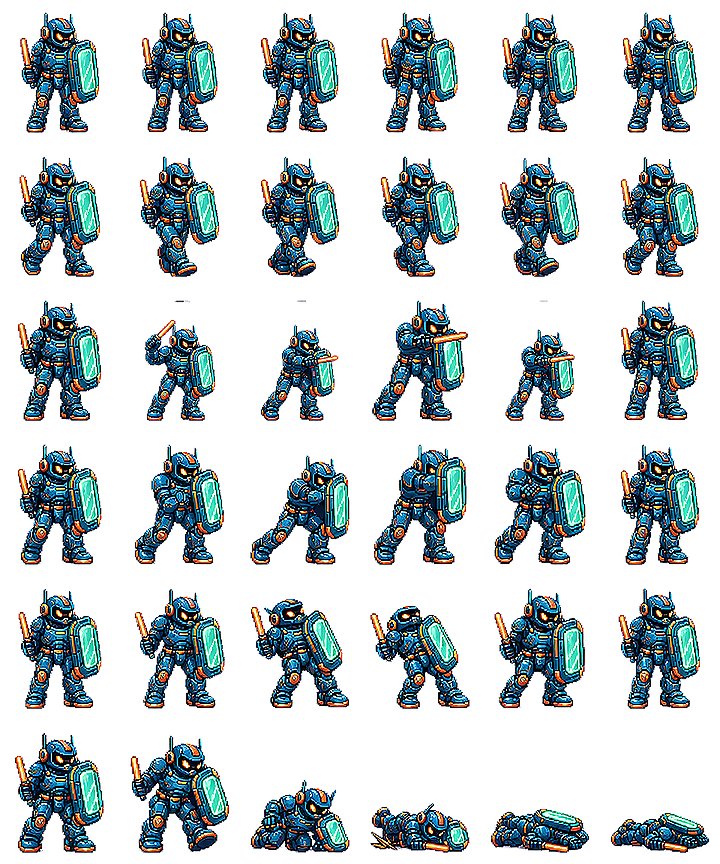
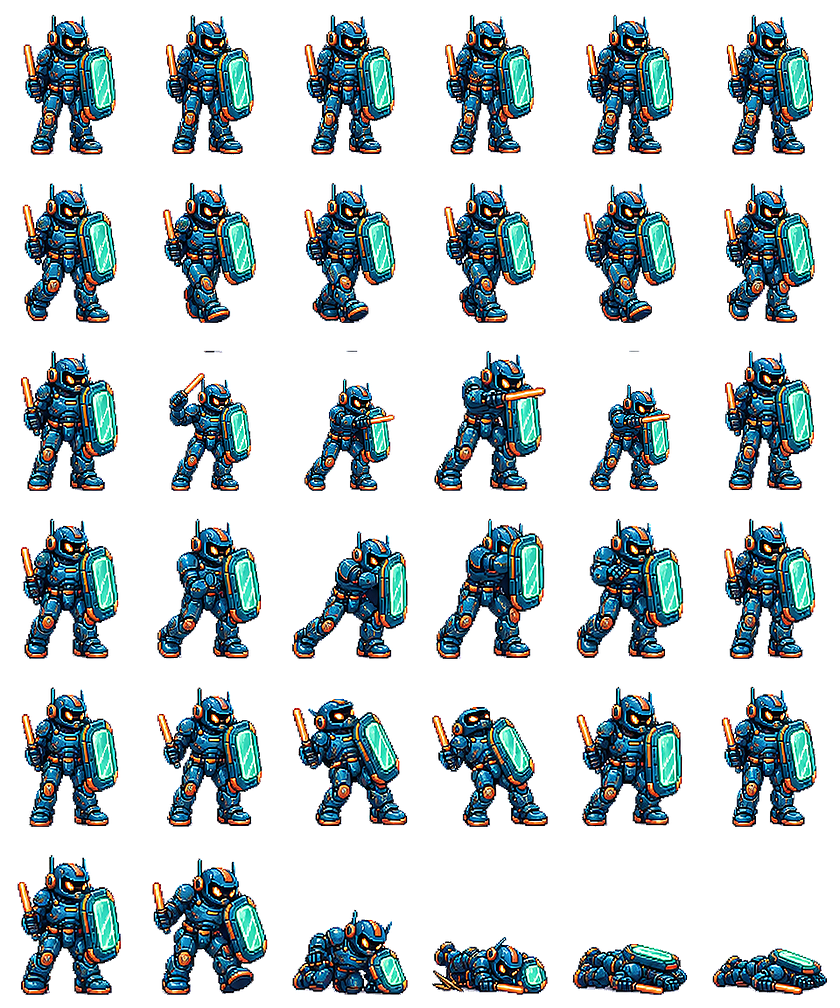
fix: clarify enemies and start stage panoramas immediately

diff --git a/android/app/src/main/java/com/familyforce/neonstreets/GameView.java b/android/app/src/main/java/com/familyforce/neonstreets/GameView.java
@@ -268,6 +268,8 @@ public final class GameView extends SurfaceView implements SurfaceHolder.Callbac
      */
     private final Paint heroPaint = new Paint(Paint.ANTI_ALIAS_FLAG
             | Paint.FILTER_BITMAP_FLAG | Paint.DITHER_FLAG);
+    private final Paint fineEnemyPaint = new Paint(Paint.ANTI_ALIAS_FLAG
+            | Paint.FILTER_BITMAP_FLAG | Paint.DITHER_FLAG);
     private final Paint portraitPaint = new Paint(Paint.FILTER_BITMAP_FLAG | Paint.DITHER_FLAG);
     private final Rect source = new Rect();
     private final RectF dest = new RectF();
@@ -4122,7 +4124,9 @@ public final class GameView extends SurfaceView implements SurfaceHolder.Callbac
                     Color.red(accent), Color.green(accent), Color.blue(accent)));
             canvas.drawRect(0, 0, W, H, paint);
         }
-        paint.setColor(Color.argb(82, 4, 5, 25));
+        // Panoramas already carry their intended night grading. The former
+        // 82-alpha veil hid signs, faces, and ground texture on TV panels.
+        paint.setColor(Color.argb(scene == stageScene ? 34 : 82, 4, 5, 25));
         canvas.drawRect(0, 0, W, H, paint);
         if (scene != stageScene) {
             paint.setColor(Color.rgb(31, 35, 58));
@@ -4137,8 +4141,12 @@ public final class GameView extends SurfaceView implements SurfaceHolder.Callbac
 
     private float stagePanProgress(float scroll, int stage) {
         int safeStage = clampInt(stage, 0, STAGE_NAMES.length - 1);
-        float start = safeStage == 0 ? 0f
-                : Math.max(0f, ZONE_TRIGGERS[STAGE_START_ZONE[safeStage]] - W * 0.35f);
+        // A stage begins where the camera stopped after the preceding gate,
+        // not near its first encounter. This makes scenery react from the
+        // player's first step instead of waiting ~200 world units in Stage 4.
+        float start = safeStage == 0 ? 0f : Math.max(0f,
+                ZONE_TRIGGERS[STAGE_END_ZONE[safeStage - 1]]
+                        + ENCOUNTER_GATE_OFFSET - 210f);
         float end = Math.min(WORLD_END - W,
                 ZONE_TRIGGERS[STAGE_END_ZONE[safeStage]] + ENCOUNTER_GATE_OFFSET);
         if (end <= start + 1f) return 0.5f;
@@ -4827,17 +4835,19 @@ public final class GameView extends SurfaceView implements SurfaceHolder.Callbac
         paint.setColor(Color.argb(100, 0, 0, 0));
         canvas.drawOval(x - width * 0.34f, enemy.y - 6, x + width * 0.34f, enemy.y + 7, paint);
         Bitmap bitmap = enemyArt[enemy.type];
+        Paint enemyPaint = enemy.type == ENEMY_STRIKER || enemy.type == ENEMY_SHIELD_GUARD
+                ? fineEnemyPaint : pixelPaint;
         if (enemy.flash > 0) {
-            pixelPaint.setColorFilter(new PorterDuffColorFilter(Color.WHITE, PorterDuff.Mode.SRC_ATOP));
+            enemyPaint.setColorFilter(new PorterDuffColorFilter(Color.WHITE, PorterDuff.Mode.SRC_ATOP));
         } else {
-            pixelPaint.setColorFilter(STAGE_ENEMY_FILTERS[stageForZone(enemy.zone)]);
+            enemyPaint.setColorFilter(STAGE_ENEMY_FILTERS[stageForZone(enemy.zone)]);
         }
         if (enemy.animator.isBound()) {
             canvas.save();
             if (!enemy.facingRight) canvas.scale(-1f, 1f, x, 0f);
             dest.set(x - width * 0.5f, enemy.y - enemy.z - height,
                     x + width * 0.5f, enemy.y - enemy.z);
-            enemy.animator.draw(canvas, pixelPaint, source, dest);
+            enemy.animator.draw(canvas, enemyPaint, source, dest);
             canvas.restore();
         } else if (bitmap != null) {
             float bob = enemy.state == ENEMY_STATE_WALK
@@ -4866,7 +4876,7 @@ public final class GameView extends SurfaceView implements SurfaceHolder.Callbac
             canvas.rotate(rotation);
             canvas.scale((enemy.facingRight ? 1f : -1f) * scaleX, scaleY);
             dest.set(-width * 0.5f, -height, width * 0.5f, 0f);
-            canvas.drawBitmap(bitmap, null, dest, pixelPaint);
+            canvas.drawBitmap(bitmap, null, dest, enemyPaint);
             canvas.restore();
         } else {
             paint.setColor(enemy.type == 3 ? Color.rgb(166, 83, 224) : Color.rgb(20, 157, 148));
@@ -4876,7 +4886,7 @@ public final class GameView extends SurfaceView implements SurfaceHolder.Callbac
             canvas.drawCircle(x - 7, enemy.y - enemy.z - height * 0.68f, 3, paint);
             canvas.drawCircle(x + 7, enemy.y - enemy.z - height * 0.68f, 3, paint);
         }
-        pixelPaint.setColorFilter(null);
+        enemyPaint.setColorFilter(null);
         if (enemy.hp < enemy.maxHp || enemy.type == 3 || enemy.elite) {
             float barW = enemy.type == 3 ? 92f : 54f;
             paint.setColor(Color.argb(190, 10, 10, 25));

diff --git a/android/tools/generate_tv_optimized_assets.py b/android/tools/generate_tv_optimized_assets.py
@@ -45,8 +45,10 @@ VARIANTS = (
     ("enemies/skater_anim.png", "tv/enemies/skater_anim.png", (720, 864), "RGBA"),
     ("enemies/brute_anim.png", "tv/enemies/brute_anim.png", (720, 864), "RGBA"),
     ("enemies/boss_anim.png", "tv/enemies/boss_anim.png", (720, 864), "RGBA"),
-    ("enemies/striker_anim.png", "tv/enemies/striker_anim.png", (720, 864), "RGBA"),
-    ("enemies/shield_guard_anim.png", "tv/enemies/shield_guard_anim.png", (720, 864), "RGBA"),
+    # Fine-detail newcomers keep 87.5% masters. Their 140x168 cells are close
+    # to their 116/132px render heights and avoid destructive double reduction.
+    ("enemies/striker_anim.png", "tv/enemies/striker_anim.png", (840, 1008), "RGBA"),
+    ("enemies/shield_guard_anim.png", "tv/enemies/shield_guard_anim.png", (840, 1008), "RGBA"),
 )
 
 
@@ -64,13 +66,8 @@ def generate_variant(source_rel: str, output_rel: str, size: tuple[int, int], mo
             rgb = resized.convert("RGB").filter(
                 ImageFilter.UnsharpMask(radius=0.8, percent=115, threshold=3)
             )
-            if output_rel in (
-                "tv/enemies/striker_anim.png",
-                "tv/enemies/shield_guard_anim.png",
-            ):
-                rgb = rgb.filter(
-                    ImageFilter.UnsharpMask(radius=0.55, percent=185, threshold=1)
-                )
+            # Do not add a second aggressive sharpen pass to the detailed
+            # enemies; it created thick crunchy pixels and uneven outlines.
             rgb.putalpha(resized.getchannel("A"))
             resized = rgb
         else:

diff --git a/android/tools/test_tv_encounter_memory_contract.py b/android/tools/test_tv_encounter_memory_contract.py
@@ -26,11 +26,17 @@ def main() -> None:
     assert "prepareEnemyAnimationsForZone(zone);" in text
     assert "void trimMemory(int level)" in text
 
-    for name in ("grunt", "skater", "brute", "boss", "striker", "shield_guard"):
+    for name in ("grunt", "skater", "brute", "boss"):
         path = ASSETS / f"tv/enemies/{name}_anim.png"
         assert path.is_file(), path
         with Image.open(path) as image:
             assert image.size == (720, 864), (path, image.size)
+            assert image.mode == "RGBA", (path, image.mode)
+    for name in ("striker", "shield_guard"):
+        path = ASSETS / f"tv/enemies/{name}_anim.png"
+        assert path.is_file(), path
+        with Image.open(path) as image:
+            assert image.size == (840, 1008), (path, image.size)
             assert image.mode == "RGBA", (path, image.mode)
     for name in ("parent", "adam", "shaikha", "sulaiman"):
         path = ASSETS / f"tv/heroes/{name}_anim.png"
@@ -42,7 +48,7 @@ def main() -> None:
     tv_bytes = 4 * 720 * 864
     assert tv_bytes * 100 // full_bytes == 56
     print("TV first-encounter memory contract: PASS "
-          "(stage roster warmup, maximum five atlases, 43.75% atlas reduction)")
+          "(stage roster warmup, maximum five atlases, mixed 56%/77% atlas area)")
 
 
 if __name__ == "__main__":

diff --git a/android/tools/test_shield_guard_enemy_contract.py b/android/tools/test_shield_guard_enemy_contract.py
@@ -28,7 +28,7 @@ assert "if len(selected) == COLS" in builder
 for relative, expected in (
     ("enemies/shield_guard.png", (512, 512)),
     ("enemies/shield_guard_anim.png", (960, 1152)),
-    ("tv/enemies/shield_guard_anim.png", (720, 864)),
+    ("tv/enemies/shield_guard_anim.png", (840, 1008)),
 ):
     with Image.open(ASSETS / relative) as image:
         assert image.size == expected, (relative, image.size)
@@ -54,10 +54,10 @@ with Image.open(ASSETS / "tv/enemies/shield_guard_anim.png") as source:
     tv = source.convert("RGBA")
 for row in range(6):
     for column in range(6):
-        bbox = tv.crop((column * 120, row * 144, (column + 1) * 120,
-                        (row + 1) * 144)).getchannel("A").getbbox()
+        bbox = tv.crop((column * 140, row * 168, (column + 1) * 140,
+                        (row + 1) * 168)).getchannel("A").getbbox()
         assert bbox is not None
-        assert min(bbox[0], bbox[1], 120 - bbox[2], 144 - bbox[3]) >= 8, (
+        assert min(bbox[0], bbox[1], 140 - bbox[2], 168 - bbox[3]) >= 9, (
             row, column, "unsafe TV margin", bbox)
 
-print("Shield Guard enemy contract: PASS (36 frames, 12px/8px safe gutters, guard)")
+print("Shield Guard enemy contract: PASS (36 frames, 12px/9px safe gutters, guard)")

diff --git a/android/tools/test_runtime_smoothness_contract.py b/android/tools/test_runtime_smoothness_contract.py
@@ -75,8 +75,10 @@ expected = {
 }
 for stem in ("parent", "adam", "shaikha", "sulaiman"):
     expected[f"tv/heroes/{stem}_anim.png"] = (1152, 1584)
-for stem in ("grunt", "skater", "brute", "boss", "striker", "shield_guard"):
+for stem in ("grunt", "skater", "brute", "boss"):
     expected[f"tv/enemies/{stem}_anim.png"] = (720, 864)
+for stem in ("striker", "shield_guard"):
+    expected[f"tv/enemies/{stem}_anim.png"] = (840, 1008)
 
 for relative, dimensions in expected.items():
     path = ASSETS / relative
@@ -89,7 +91,8 @@ for relative, dimensions in expected.items():
 # recommended 30–40 MiB graphics target with a small tolerance for two-player mode.
 hero_bytes = 2 * 1152 * 1584 * 4
 assist_bytes = 2 * 1152 * (1584 // 11) * 4
-enemy_bytes = 5 * 720 * 864 * 4
+# Worst roster: three legacy enemies plus both fine-detail newcomers.
+enemy_bytes = (3 * 720 * 864 + 2 * 840 * 1008) * 4
 background_bytes = (960 * 536 + 4 * 1800 * 600) * 2
 combat_mib = (hero_bytes + assist_bytes + enemy_bytes + background_bytes) / (1024 * 1024)
 assert combat_mib < 40.0, f"animated TV combat texture budget too high: {combat_mib:.2f} MiB"

diff --git a/android/tools/test_visual_refresh_contract.py b/android/tools/test_visual_refresh_contract.py
@@ -23,7 +23,18 @@ for hero in ("parent", "adam", "shaikha", "sulaiman"):
 
 assert 'backgrounds/panoramas/stage_market.png' in JAVA
 assert 'int cropWidth = Math.min(scene.getWidth()' in JAVA
+assert 'STAGE_END_ZONE[safeStage - 1]' in JAVA
 assert 'drawSelectionPortrait(canvas, hero, selected' in JAVA
+assert 'fineEnemyPaint' in JAVA
 assert 'heroReadyPortraits' in JAVA
 assert 'Shader.TileMode.REPEAT' not in JAVA[JAVA.index('private void drawBackdrop'):JAVA.index('private float stagePanProgress')]
+
+# Stage 4 used to hold the panorama still for ~200 world units because its pan
+# started near encounter 8 rather than at the camera position after encounter 7.
+triggers = (430, 1080, 1730, 2380, 2980, 3560, 4180, 4820, 5480)
+stage_end = (1, 3, 6, 8)
+gate = 425
+stage4_start = triggers[stage_end[2]] + gate - 210
+assert stage4_start == 4395
+assert (stage4_start + 10 - stage4_start) / ((5480 + gate) - stage4_start) > 0
 print("Visual refresh contract passed: continuous panoramas, reactive portraits, no tiling")

diff --git a/android/docs/VISUAL_ASSET_STANDARD_AR.md b/android/docs/VISUAL_ASSET_STANDARD_AR.md
@@ -24,7 +24,8 @@
 ## الأعداء المتحركون
 
 - الأطلس الكامل `960×1152 RGBA` = 6 أعمدة × 6 صفوف، والخلية `160×192`.
-- نسخة TV `720×864` مع بقاء كل الإطارات.
+- نسخة TV القياسية `720×864`. العدو الدقيق بصريًا يمكنه استخدام `840×1008`
+  بعد إثبات أن ميزانية القتال الكلية تبقى دون 40 MiB.
 - جسم العدو داخل `132×160` في كل خلية، مثبت أسفل المنتصف عند y=177 مع هامش 15px؛ لا يتجاوز أي سلاح أو درع حدود الخلية.
 - الصفوف: idle، walk، attack1، attack2، hurt، knockdown. يجب أن يتغير الشكل فعليًا بين الإطارات.
 
